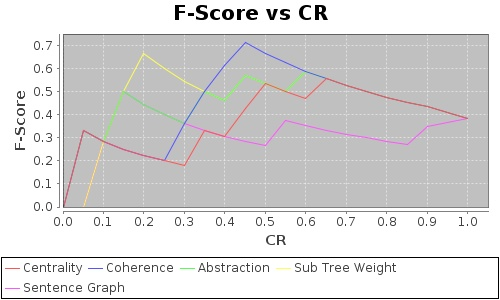
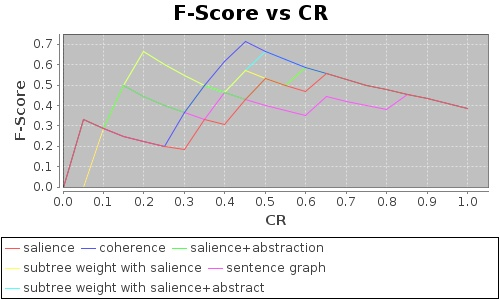
new summarisation method with salience, abstract, and subtree added

diff --git a/OntologySummarization/src/fr/inria/wimmics/explanation/evaluation/test/DCGSurveyInference1Test.java b/OntologySummarization/src/fr/inria/wimmics/explanation/evaluation/test/DCGSurveyInference1Test.java
@@ -61,11 +61,12 @@ public class DCGSurveyInference1Test {
 	static String GEONAMES_SCHEMA_LOCATION = "rdf/ontology/geonames_ontology_v3.1.rdf";
 	
 	
-	static XYSeries soloCentralityNdcgCR = new XYSeries("Centrality");
-	static XYSeries soloReRankNdcgCR = new XYSeries("Coherence");
-	static XYSeries sentenceGraphNdcgCR = new XYSeries("Sentence Graph");
-	static XYSeries soloAbstractionNdcgCR = new XYSeries("Abstraction");
-	static XYSeries soloProofTreeSubtreeWeightNdcgCR = new XYSeries("Sub Tree Weight");
+	static XYSeries soloCentralityNdcgCR = new XYSeries("salience");
+	static XYSeries soloReRankNdcgCR = new XYSeries("coherence");
+	static XYSeries sentenceGraphNdcgCR = new XYSeries("sentence graph");
+	static XYSeries soloAbstractionNdcgCR = new XYSeries("salience+abstraction");
+	static XYSeries soloProofTreeSubtreeWeightNdcgCR = new XYSeries("subtree weight with salience");
+	static XYSeries salienceAndAbstractAndSubtreeWeightNdcgCR = new XYSeries("subtree weight with salience+abstract");
 	
 	static XYSeries simCentralityNdcgCR = new XYSeries("Similarity+Centrality");
 	static XYSeries simReRankNdcgCR = new XYSeries("Similarity+Coherence");
@@ -87,11 +88,12 @@ public class DCGSurveyInference1Test {
 
 	
 
-	static XYSeries soloCentralityFMeasureCR = new XYSeries("Centrality");
-	static XYSeries soloReRankFMeasureCR = new XYSeries("Coherence");
-	static XYSeries sentenceGraphFMeasureCR = new XYSeries("Sentence Graph");
-	static XYSeries soloAbstractionFMeasureCR = new XYSeries("Abstraction");
-	static XYSeries soloProofTreeSubtreeWeightFMeasureCR = new XYSeries("Sub Tree Weight");
+	static XYSeries soloCentralityFMeasureCR = new XYSeries("salience");
+	static XYSeries soloReRankFMeasureCR = new XYSeries("coherence");
+	static XYSeries sentenceGraphFMeasureCR = new XYSeries("sentence graph");
+	static XYSeries soloAbstractionFMeasureCR = new XYSeries("salience+abstraction");
+	static XYSeries soloProofTreeSubtreeWeightFMeasureCR = new XYSeries("subtree weight with salience");
+	static XYSeries salienceAndAbstractAndSubtreeWeightFMeasureCR = new XYSeries("subtree weight with salience+abstract");
 
 	static XYSeries humansNdcgCR = new XYSeries("Human agreement (Avg)");
 	
@@ -247,6 +249,8 @@ public class DCGSurveyInference1Test {
 		dataset.addSeries(soloProofTreeSubtreeWeightNdcgCR);
 		dataset.addSeries(sentenceGraphNdcgCR);
 		
+		dataset.addSeries(salienceAndAbstractAndSubtreeWeightNdcgCR);
+		
 		
 		
 		//dataset.addSeries(humansNdcgCR); // nDCG vs CR is a comparison against avg human opinions (avg ratings)
@@ -297,7 +301,9 @@ public class DCGSurveyInference1Test {
 		fMeasureCRdataset.addSeries(soloReRankFMeasureCR);
 		fMeasureCRdataset.addSeries(soloAbstractionFMeasureCR);
 		fMeasureCRdataset.addSeries(soloProofTreeSubtreeWeightFMeasureCR);
-		fMeasureCRdataset.addSeries(sentenceGraphFMeasureCR);		
+		fMeasureCRdataset.addSeries(sentenceGraphFMeasureCR);	
+		
+		fMeasureCRdataset.addSeries(salienceAndAbstractAndSubtreeWeightFMeasureCR);
 		
 		
 		// Generate the ndcg vs cr graph
@@ -535,6 +541,8 @@ public class DCGSurveyInference1Test {
 	 */
 	@Test
 	public void testHumanAgreementNDCG() {
+		String questionName = QUESTION1_NAME;
+		//List<RankEntry> humanRank = surveyProcessor.getAvgRankEntities(questionName);
 		List<List<RankEntry>> reList = surveyProcessor.getAllRankEntries(QUESTION1_NAME);
 		
 		int n = reList.get(0).size();
@@ -566,10 +574,10 @@ public class DCGSurveyInference1Test {
 						Collections.sort(list2,cmp);
 						
 						//System.out.println("list1:"+firstIndex);
-						printRankEntryList(list1);
+						//printRankEntryList(list1);
 						
 						//System.out.println("list1:"+secondIndex);
-						printRankEntryList(list2);
+						//printRankEntryList(list2);
 						double d = DCGMeasure.computeNDCG(list1, list2, p);
 						
 						//System.out.println("nDCG: "+d);	
@@ -1156,8 +1164,90 @@ public class DCGSurveyInference1Test {
 			stmts.add(kst);
 		}	
 		return stmts;
-	}	
+	}
+	
+	
+	@Test
+	public void testSalientAbstractSubtree() throws Exception {
 		
+		System.out.println("NCG Salient+Abstract+Subtree");
+		System.out.println("#####################################");			
+		System.out.println("F-Measure Salient+Abstract+Subtree");
+		System.out.println("#####################################");	
+		
+		String questionName = QUESTION1_NAME;
+		double th = getAvgGroundTruthRating(questionName);			
+		List<RankEntry> reList = surveyProcessor.getAvgRankEntities(questionName);
+		List<KnowledgeStatement> kstmts = summaryBySalientAbstractSubtree(FILE_JUSTIFICATION_INF, ROOT_STATEMENT);
+		List<RankEntry> sList = new ArrayList<RankEntry>();
+	
+		//System.out.println(reList.size()+":"+kstmts.size());
+		for(KnowledgeStatement kst:kstmts) {
+			String name = getStatementName(kst.getStatement().getContext().stringValue());
+			RankEntry re = new RankEntry();
+			re.setName(name);
+			sList.add(re);
+		}
+		
+		
+		computeNDCGMeasure(reList, sList, salienceAndAbstractAndSubtreeWeightNdcgCR);	
+		
+		EntryJudgmentDscCmp cmp = new EntryJudgmentDscCmp();
+		Collections.sort(reList,cmp);		
+		
+		computeFmeasure(reList, sList, salienceAndAbstractAndSubtreeWeightFMeasureCR,th);
+	}	
+	
+	public List<KnowledgeStatement> summaryBySalientAbstractSubtree(String justificationFile, String rootStmtId) throws Exception { 
+		List<KnowledgeStatement> stmts = new ArrayList<KnowledgeStatement>();
+		JustificationProcessor jp = new JustificationProcessor();
+		jp.parseJustificationFile(justificationFile,"http://www.example.com/" );
+		List<KnowledgeStatement> kStmts = jp.summarizeByProofTreeAbstraction(true, rootStmtId, null, null, null);
+		
+//		Map<String, Double> scores = new HashMap<String,Double>();
+//		for(int i=0;i<kStmts.size();i++) {
+//			
+//			KnowledgeStatement kst = kStmts.get(i);
+//			String stmtId = kst.getStatement().getContext().stringValue();
+//			//if(stmtId.equals(rootStmtId)) continue;
+//			scores.put(stmtId, kst.getScore());
+//			
+//			System.out.println("Statement:"+kst.getStatement().toString());
+//			System.out.println("Score:"+kst.getScore());
+//			System.out.println("SubtreeWeight Score:"+kst.getSubTreeWeight());
+//			//System.out.println(kst.getStatement().getContext().stringValue()+" "+i);
+//			
+//			
+//			//stmts.add(kst);
+//		}		
+		
+		kStmts = jp.summarizeByProofTreeSubtreeWeight(true, rootStmtId, null, null, null);
+		
+		for(int i=0;i<kStmts.size();i++) {
+			
+			KnowledgeStatement kst = kStmts.get(i);
+			String stmtId = kst.getStatement().getContext().stringValue();
+			if(stmtId.equals(rootStmtId)) continue;
+			
+			//KnowledgeStatement newKst = new KnowledgeStatement();
+			//newKst.setStatement(kst.getStatement());
+			//newKst.setScore(kst.getScore());
+			
+			//double stn = 0.5 * scores.get(stmtId) + 0.5 * kst.getSubTreeWeight();
+			//System.out.println("Statement:"+kst.getStatement().toString());
+			//System.out.println("Score:"+kst.getScore());
+			//System.out.println("SubtreeWeight Score:"+kst.getSubTreeWeight());
+			//System.out.println("Recomp SubtreeWeight Score:"+stn);
+			
+			//System.out.println(kst.getStatement().getContext().stringValue()+" "+i);
+			
+			
+			stmts.add(kst);
+		}			
+		
+		return stmts;
+		
+	}
 	
 	public List<KnowledgeStatement> summaryBySalientProofTreeAbstraction(String justificationFile, String rootStmtId) throws Exception {
 		List<KnowledgeStatement> stmts = new ArrayList<KnowledgeStatement>();

diff --git a/OntologySummarization/src/fr/inria/wimmics/explanation/evaluation/DCGMeasure.java b/OntologySummarization/src/fr/inria/wimmics/explanation/evaluation/DCGMeasure.java
@@ -147,8 +147,8 @@ public class DCGMeasure {
 		
 		List<RankEntry> rakedListByHuman1 = copyRankEntryList(rakedListByHuman);
 		List<RankEntry> rakedListByAlgorithm1 = copyRankEntryList(rakedListByAlgorithm);
-		//EntryJudgmentDscCmp cmp = new EntryJudgmentDscCmp();
-		//Collections.sort(rakedListByHuman1,cmp);
+		EntryJudgmentDscCmp cmp = new EntryJudgmentDscCmp();
+		Collections.sort(rakedListByHuman1,cmp);
 		
 		for(RankEntry reH:rakedListByHuman1) {
 			for(RankEntry reA:rakedListByAlgorithm1) {
